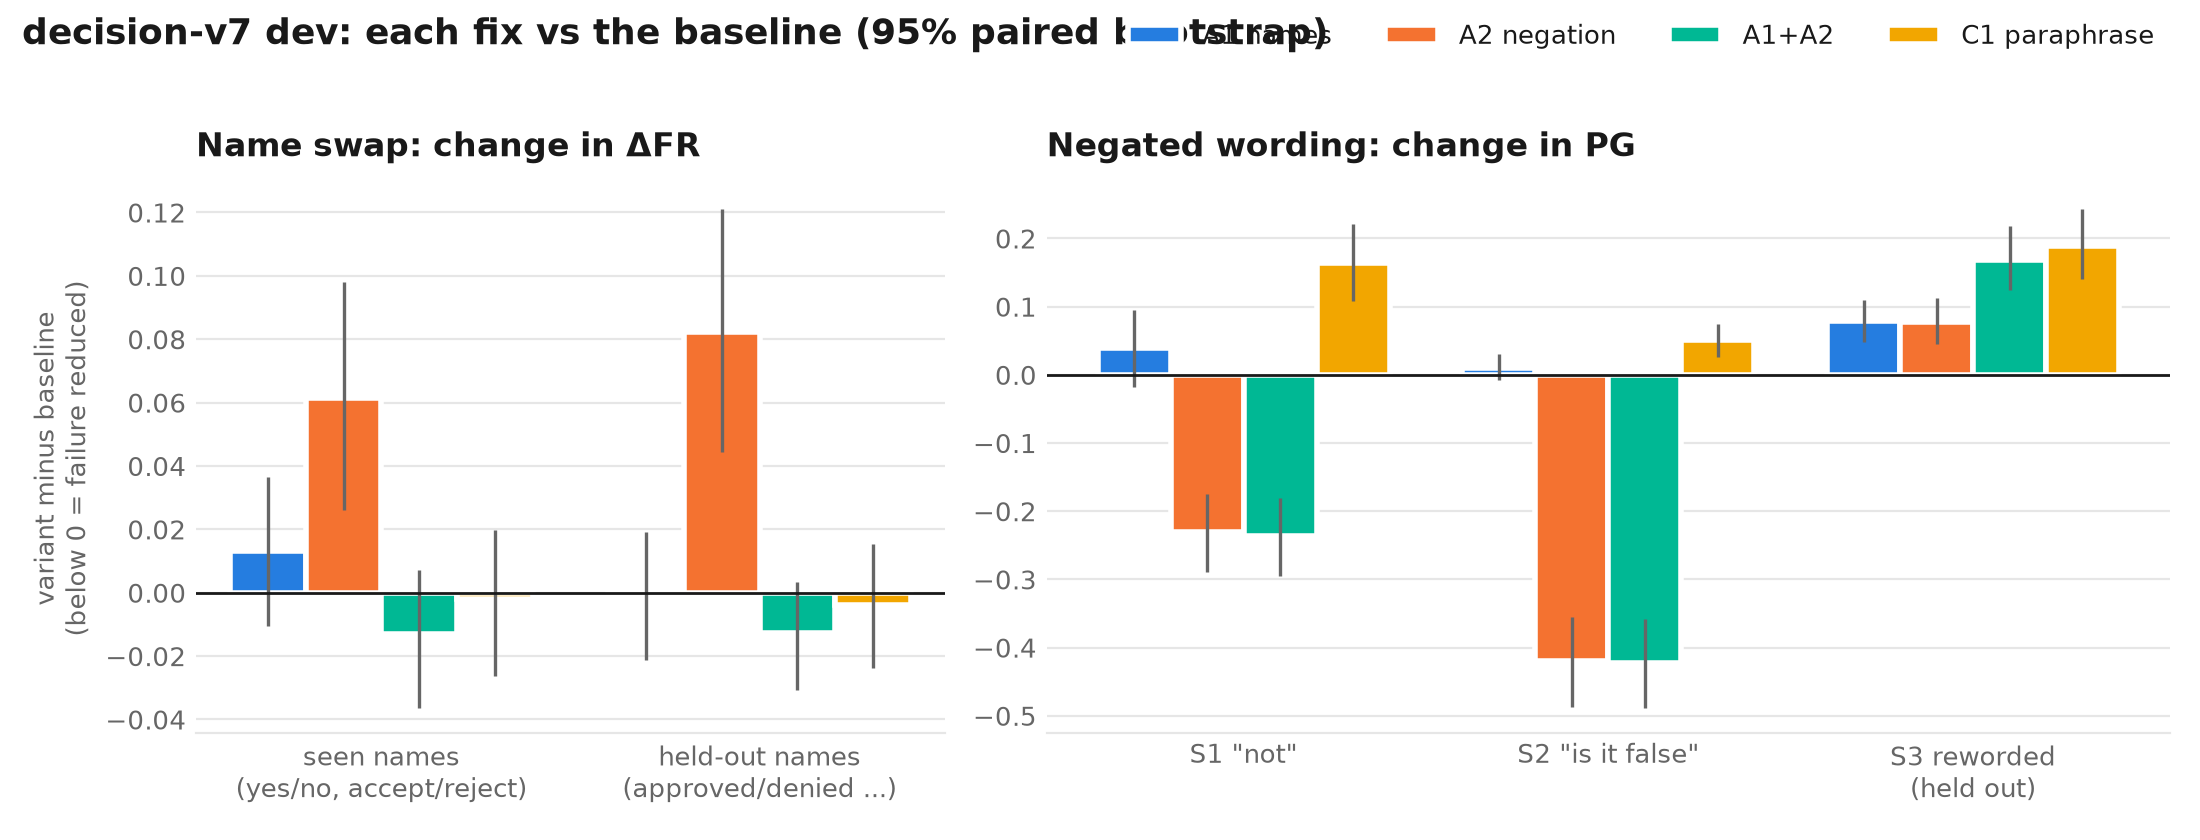
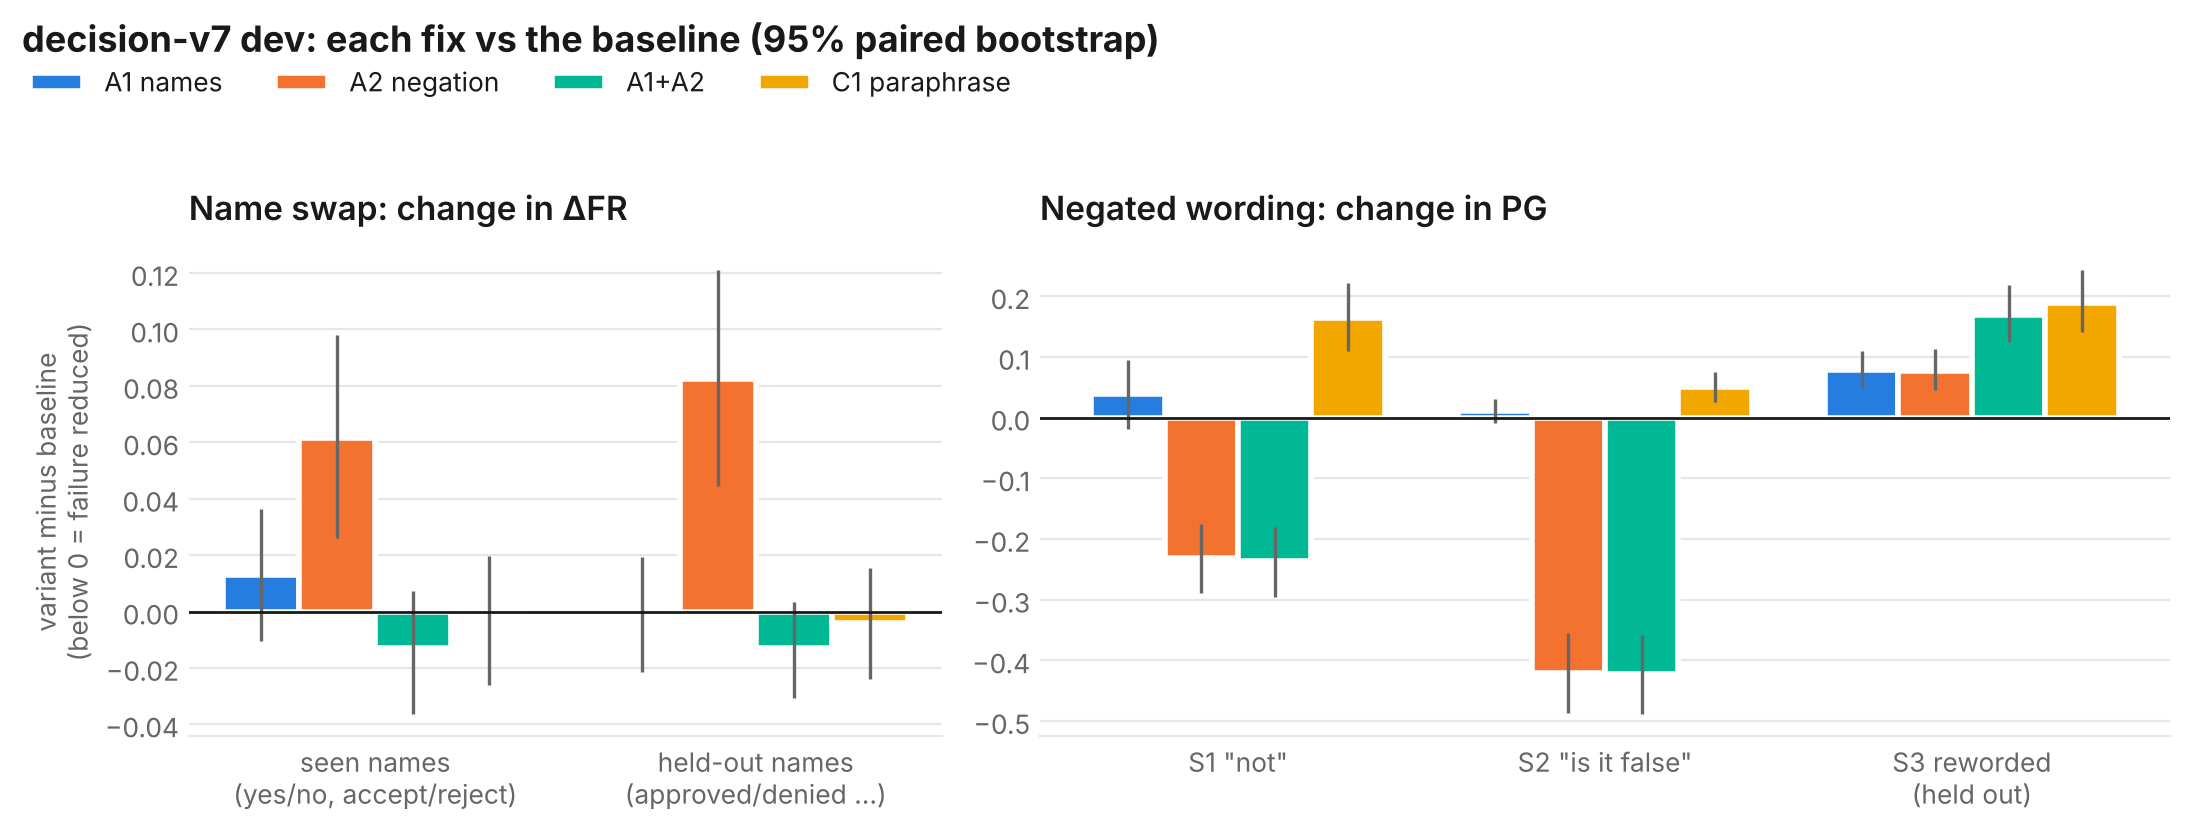
Figures: legend under the title

diff --git a/analysis/figures.py b/analysis/figures.py
@@ -62,11 +62,11 @@ def figure(suite, values, split, out):
     panel(right, values, PG_GROUPS, "Negated wording: change in PG", present)
     left.set_ylabel("variant minus baseline\n(below 0 = failure reduced)", color=INK2, fontsize=9.5)
     handles, labels = left.get_legend_handles_labels()
-    fig.legend(handles, labels, loc="upper right", ncol=len(present), frameon=False, fontsize=9.5,
-               labelcolor=INK, bbox_to_anchor=(0.99, 1.0))
+    fig.legend(handles, labels, loc="upper left", ncol=len(present), frameon=False, fontsize=9.5,
+               labelcolor=INK, bbox_to_anchor=(0.003, 0.95))
     fig.suptitle(f"{suite} {split}: each fix vs the baseline (95% paired bootstrap)", x=0.01, ha="left",
                  color=INK, fontsize=13, fontweight="bold")
-    fig.tight_layout(rect=(0, 0, 1, 0.96))
+    fig.tight_layout(rect=(0, 0, 1, 0.90))
     path = out / f"e2-{suite}-{split}.png"
     fig.savefig(path, dpi=200, facecolor=SURFACE)
     plt.close(fig)
